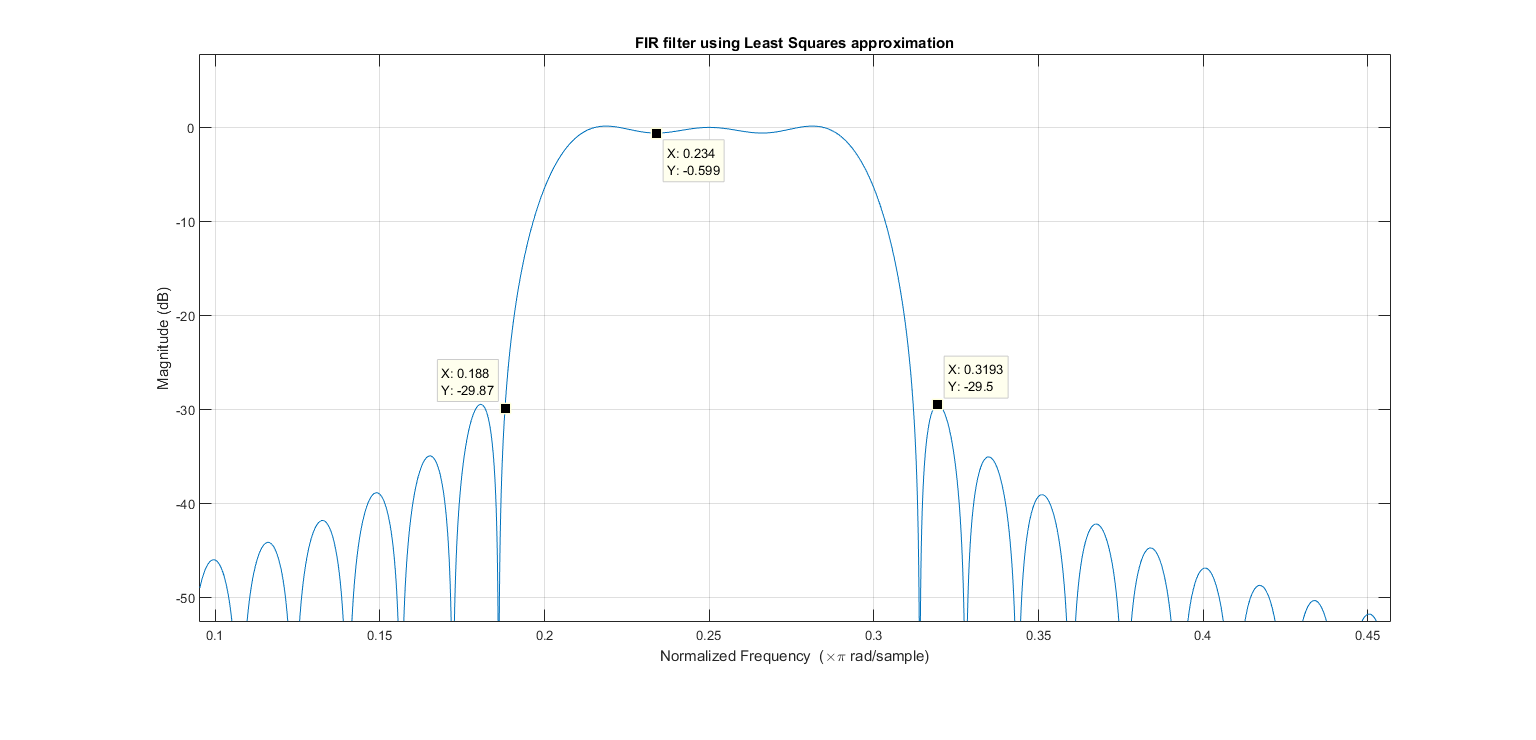
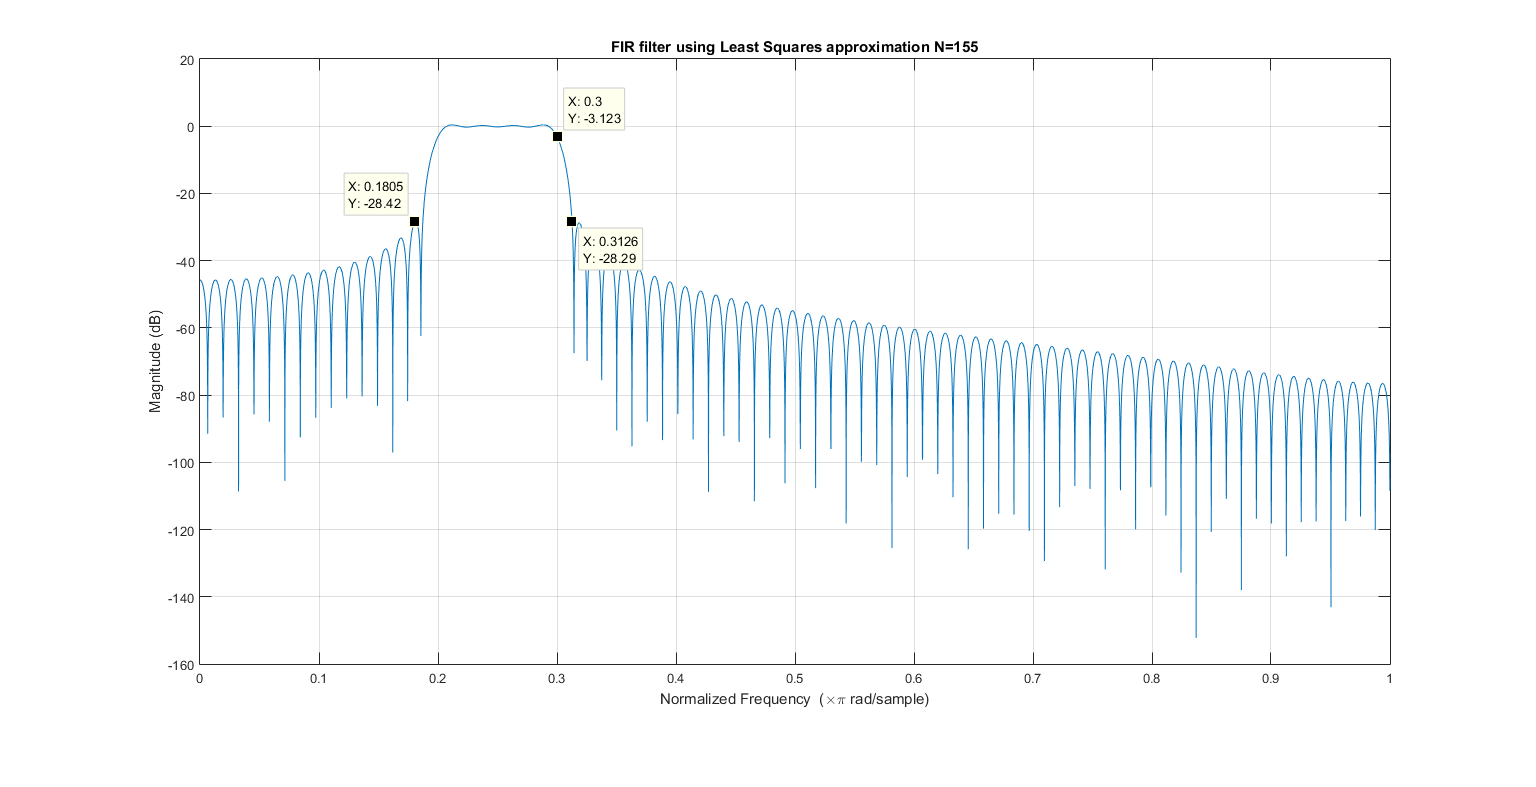
Part1 done. Next is pole-zero

diff --git a/Exp4/Experiment4.m b/Exp4/Experiment4.m
@@ -11,9 +11,21 @@ Upper passband edge: 0.3pi          Upper stopband edge: 0.31pi
 6. IIR Inverse Chebyshev
 7. IIR Elliptic
 %}
+%% 1.b.FIR-Hannwindow
+%{
+N=400;
+h1 = fir1(N, [0.198 0.302], 'bandpass', hann(N+1));
+freqz(h1,1,10000);
+%}
 %% 2.FIR-LS
 %{
-h1=fir1(120,[0.2 0.3],'bandpass',chebwin(121,15));
+h1 = firls(155,[0 0.19 0.203 0.297 0.31 1],[0 0 1 1 0 0]);
+freqz(h1,1,10000);
+%}
+%% 3.FIR-Parks-McClellan
+%{
+N=175;
+h1=firpm(N,[0 0.19 0.205 0.295 0.31 1],[0 0 1 1 0 0]);
 freqz(h1,1,10000);
 %}
 %% 4.Butterworth IIR
